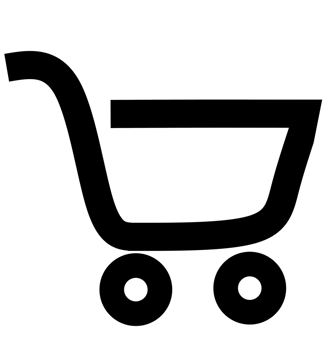
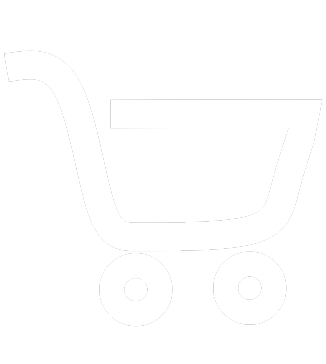
welcome to the world

Changed region(s): [[0.0, 0.1209, 1.0, 0.9066]]

diff --git a/src/pages/Landing.jsx b/src/pages/Landing.jsx
@@ -1,4 +1,4 @@
-import { Slider, SliderTrack, SliderFilledTrack, SliderThumb, Box, Heading, Flex, Card, Grid, GridItem, Text, Divider, Center, Link, Button, FormControl, Input, Show, Hide } from "@chakra-ui/react"
+import { Slider, SliderTrack, SliderFilledTrack, SliderThumb, Box, Heading, Flex, Card, Grid, GridItem, Text, Divider, Center, Link, Button, FormControl, Input, Show, Hide, AbsoluteCenter } from "@chakra-ui/react"
 import { Image } from "@chakra-ui/react"
 import { Carousel } from "react-responsive-carousel";
 import "react-responsive-carousel/lib/styles/carousel.min.css";
@@ -20,6 +20,8 @@ import mobileintro from "../media/mobile intro.png"
 import InfoCard from "../components/InfoCard";
 
 const slides = ["","",""]
+
+const deviceicons = [ laptopicon, desktopicon, phoneicon]
 
 export default function Home() {
     const tawkMessengerRef = useRef()
@@ -53,38 +55,17 @@ src={mobileintro}/>
                 </Carousel>    
             </Box>
         </Box>
-        <Grid bgColor='bg.300' padding="4vh" gap={0} templateColumns="15fr 1fr 4fr" sx={{ boxShadow: "inset 0px 2px 4px #000000" }} >
-            <Text fontSize={{xl:"1.8rem", xxxl: "2.5rem"}} color="white" fontWeight="400" fontFamily="Cocogoose" placeSelf="center"> <Text as="span" fontWeight="600" fontSize="1.3em"> pardon our dust, </Text> we are currently developing our website to make custom builds, and repair requests, easy. We're still open for business, so <Link color="red"> <ScrollLink to="contact-section"
-        spy={true}
-        smooth={true}
-        offset={-70}
-        duration={500} > click here for sales or repairs!</ScrollLink> </Link>   </Text>
-            <Divider orientation="vertical" h="100%" placeSelf="center"></Divider>
-            <Heading color="white" fontSize={{xl:"8vh", xxxl:"7vh"}} fontFamily="Cocogoose" fontWeight="400" marginLeft="2vw" height={{xl:"30vh", xxxl:"25vh"}}> website coming soon. <Image display="inline" src={hammer} height="20%"/> </Heading>
-        </Grid>
-        <InfoCard></InfoCard>
-        <Grid bgColor='bg.200' paddingY="4vh" gap={0} templateColumns="2.8fr 0.5fr 7.5fr 3fr" sx={{ boxShadow: "inset 0px 2px 4px #000000" }}>
-        <Heading color="white" fontSize={{xl:"8vh", xxxl:"7vh"}} fontFamily="Cocogoose" fontWeight="400" marginLeft="2vw" placeSelf="center"> looking for repairs? </Heading>
-        <Divider orientation="vertical" h="100%" align></Divider>
-        <Text fontSize={{xl:"1.8rem", xxxl: "3rem"}} color="white" fontWeight="400" fontFamily="Cocogoose" placeSelf="center"> <Text as="span" fontWeight="600" fontSize={{xl:"1.3em", xxl:"1em"}}> low cost and easy. </Text> We guarantee cheapest fees in the area and will price match on request. We make it easy to repair anything, mobile, PC or laptop, and if we don't fix your problem, there's no fee. 
-        <Link color="red"> <ScrollLink to="contact-section"
-    spy={true}
-    smooth={true}
-    offset={-70}
-    duration={500} > Set up a drop off or a pick up today. </ScrollLink> </Link></Text>
-    <Grid templateRows="1fr 1fr 1fr" templateColumns="1fr" gap={0} h={{xl:"35vh", xxl:"30vh"}} w="100%">
-        <Image src={laptopicon} maxH="80%" objectFit="cover" placeSelf="center" />
-        <Image src={desktopicon} maxH="80%" objectFit="cover" placeSelf="center"/>
-        <Image src={phoneicon} maxH="80%" objectFit="cover" placeSelf="center"/>
-    </Grid>
-</Grid>
-        <Flex bgColor="bg.350" sx={{ boxShadow: "0px 2px 4px #000000", zIndex: "3"}} py="5vh" px="2vw" color="white" id="contact-section">
-            <Flex width="60%" gap="1vh" flexDir="column">
-                <Heading fontFamily="cocogoose" fontSize={{xl: "4rem", xxxl: "5.5rem"}}> ready to get started? </Heading>
-                <Text fontFamily="poppins" fontSize={{xl: "1.2rem", xxxl: "1.6rem"}}> To get started with a repair or sale, or just a general enquiry, tap the button to quickly start a chat with a staff member, or send us an email below. </Text>
-                <Button marginTop="1vw" colorScheme="highlight" gap="10px" onClick={handleMaximize} size={{xl: 'md', xxxl: "xl"}}> <Image src={chatbubble} h="80%"/> <Text> Start a chat </Text></Button>
+        <InfoCard bg="bg.300" subtitle="pardon our dust," bait="We're still open for business, so" linktext="click here for sales or repairs!" button="Click here for sales and repairs." title="website coming soon." titleimg={hammer} scrolllinkto="contact-section"> we are currently developing our website to make custom builds, and repair requests, easy. </InfoCard>
+        <InfoCard orientation="row-reverse" bg="bg.200" subtitle="low cost and easy." linktext="Set up a drop off or pickup today." button="Set up a drop off or pickup today." title="looking for repairs?" scrolllinkto="contact-section" images={deviceicons}>  We guarantee cheapest fees in the area and will price match on request. We make it easy to repair anything, mobile, PC or laptop, and if we don't fix your problem, there's no fee. </InfoCard>
+        <Flex bgColor="bg.350" sx={{ boxShadow: "0px 2px 4px #000000", zIndex: "3"}} py="3vh" px="2vw" color="white" id="contact-section">
+            <Flex width={{lg:"60%", base:"100%"}} gap="1vh" flexDir="column">
+                <Heading fontFamily="cocogoose" textAlign={{base:"center",lg:"left"}} fontSize={{base: "2.5rem", xl: "4rem", xxxl: "5.5rem"}}> ready to get started? </Heading>
+                <Text fontFamily="poppins" fontSize={{xl: "1.2rem", xxxl: "1.6rem"}} textAlign={{base: "center", lg:"left"}}> To get started with a repair or sale, or just a general enquiry, tap the button to quickly start a chat with a staff member, or send us an email below. </Text>
+                <Button marginTop="1vw" colorScheme="highlight" gap="10px" onClick={handleMaximize} size={{base: 'md', xl: 'md', xxxl: "xl"}} w="100%"> <Image src={chatbubble} h="80%"/> <Text> Start a chat </Text></Button>
                 <Flex align="center" marginTop="1vw" gap="1vw" marginBottom="1vh">
-                    <Text fontSize={{xl: "1.5rem", xxl: "2rem"}}> OR </Text> <Divider/>
+                    <Show above="lg"><Text fontSize={{xl: "1.5rem", xxl: "2rem"}}> OR </Text> </Show>  
+                    <Divider/>  
+                    <Hide above="lg"> OR <Divider/> </Hide> 
                 </Flex>
                 <ContactCard page="/landing"/>
             </Flex>

diff --git a/src/components/ContactCard.jsx b/src/components/ContactCard.jsx
@@ -15,48 +15,44 @@ export default function ContactCard(props) {
     <>
         <Text marginBottom="0.5vw" color="lightgray" fontSize={{xl: "1rem", xxxl: "1.3rem"}}> Send us an email (*required field)</Text>
         <Form method='post' action={props.page}>
-            <Grid templateColumns="1.5fr 3fr" columnGap="1vw" >
-                <FormControl marginBottom="1vw">
-                    <Input type="text" name="name" placeholder='Name*' variant="filled" backgroundColor="bg.200" size={{xl: "md", xxxl: "lg"}}/>
+            <Flex flexWrap="wrap" justify="space-between" columnGap="1vw" gap={{base:"1vh", lg:"0vw"}}>
+                <FormControl marginBottom="1vw" display="inline" maxWidth={{base:"100vw", lg:"49%"}}>
+                    <Input type="text" name="name" placeholder='Name*' variant="filled" backgroundColor="bg.200" size={{base:"md",xl: "md", xxxl: "lg"}}/>
                 </FormControl>
 
-                <FormControl isRequired marginBottom="1vw">
-                    <Input variant="filled" backgroundColor="bg.200" type="email" name="email" placeholder='Email*' size={{xl: "md", xxxl: "lg"}}/>
-                </FormControl>
-            </Grid>
-
-            <FormControl marginBottom="1vw">
-                <Select variant="filled" backgroundColor="bg.200" placeholder='What are you enquiring about?*' size={{xl: "md", xxxl: "lg"}} name='enquirytype'>
-                    <option  style={{backgroundColor: "black"}} value="sales"> Sales </option>
-                    <option style={{backgroundColor: "black"}} value="techsupport"> Technical Support </option>
-                    <option style={{backgroundColor: "black"}} value="repair"> Repair </option>
-                    <option style={{backgroundColor: "black"}} value="general"> General Enquiry </option>
-                </Select>
-            </FormControl>
-
-            <Grid templateColumns="1fr 3fr" columnGap="1vw">
-
-                <FormControl marginBottom="1vw">   
-                    <Input variant="filled" backgroundColor="bg.200" type="number" name="postcode" placeholder='Postcode' size={{xl: "md", xxxl: "lg"}}/>
+                <FormControl isRequired marginBottom="1vw" display="inline" maxWidth={{base:"100vw", lg:"49%"}}>
+                    <Input variant="filled" backgroundColor="bg.200" type="email" name="email" placeholder='Email*' size={{base:"md",xl: "md", xxxl: "lg"}}/>
                 </FormControl>
 
                 <FormControl marginBottom="1vw" >
-                    <Input variant="filled" backgroundColor="bg.200" type="number" name="phone" placeholder='Phone' size={{xl: "md", xxxl: "lg"}}/>
+                    <Select variant="filled" backgroundColor="bg.200" placeholder='What are you enquiring about?*' size={{base:"md",xl: "md", xxxl: "lg"}} name='enquirytype'>
+                        <option  style={{backgroundColor: "black"}} value="sales"> Sales </option>
+                        <option style={{backgroundColor: "black"}} value="techsupport"> Technical Support </option>
+                        <option style={{backgroundColor: "black"}} value="repair"> Repair </option>
+                        <option style={{backgroundColor: "black"}} value="general"> General Enquiry </option>
+                    </Select>
                 </FormControl>
 
 
-            </Grid>
+                <FormControl marginBottom="1vw" maxWidth={{base:"100vw", lg:"49%"}}>   
+                    <Input variant="filled" backgroundColor="bg.200" type="number" name="postcode" placeholder='Postcode' size={{base:"md",xl: "md", xxxl: "lg"}}/>
+                </FormControl>
 
-            <FormControl marginBottom="1vw">
-                <Textarea 
-                variant="filled" backgroundColor="bg.200"
-                placeholder='How can we help you?*'
-                name="message"
-                size={{xl: "md", xxxl: "lg"}}/>
-            </FormControl>
+                <FormControl marginBottom="1vw" maxWidth={{base:"100vw", lg:"49%"}}>
+                    <Input variant="filled" backgroundColor="bg.200" type="number" name="phone" placeholder='Phone' size={{base:"md",xl: "md", xxxl: "lg"}}/>
+                </FormControl>
 
 
-            <Button type="submit"  size={{xl: "md", xxxl: "lg"}} onSubmit={useToast({
+                <FormControl marginBottom="1vw">
+                    <Textarea 
+                    variant="filled" backgroundColor="bg.200"
+                    placeholder='How can we help you?*'
+                    name="message"
+                    size={{base:"md",xl: "md", xxxl: "lg"}}/>
+                </FormControl>
+
+
+            <Button type="submit"  size={{base:"md",xl: "md", xxxl: "lg"}} onSubmit={useToast({
                 title: 'Message sent.',
                 description: 'You should receive a confirmation email in 1-2 minutes.',
                 status: 'success',
@@ -65,6 +61,7 @@ export default function ContactCard(props) {
             })}>
                 Submit
             </Button>
+            </Flex>
         </Form>
     </>
   )

diff --git a/src/components/InfoCard.jsx b/src/components/InfoCard.jsx
@@ -8,21 +8,42 @@ import laptopicon from "../media/icons/laptop.png"
 import desktopicon from "../media/icons/desktop.png"
 import phoneicon from "../media/icons/phone.png"
 import hammer from "../media/icons/hammer.png"
+import { useBreakpointValue } from '@chakra-ui/react'
+import { Link as ReactRouterLink} from 'react-router-dom'
+
+// parameters: Subtitle, Bait, Linktext, Linkto, Title, Titleimg, Scrolllinkto, Button, Orientation, show divider
 
 export default function InfoCard(props) {
-
+  const orient = useBreakpointValue({base: "horizontal", lg: "vertical"})
 
   return (
-    <Flex backgroundColor="bg.300" p="4vh" gap="2vw" flexDir={{base: "column", lg:"row"}}>
-        <Text fontSize={{xl:"1.8rem", xxxl: "2.5rem"}} color="white" fontWeight="400" fontFamily="Cocogoose" placeSelf="center"> <Text as="span" fontWeight="600" fontSize="1.3em"> pardon our dust, </Text> we are currently developing our website to make custom builds, and repair requests, easy. We're still open for business, so <Link color="red"> <ScrollLink to="contact-section"
+    <Flex backgroundColor={props.bg} p="4vh" gap={{base: "3.5vh",lg:"2vw"}} flexDir={{base: "column-reverse", lg:props.orientation ? props.orientation : "row"}}>
+        { props.images && 
+        <Grid templateColumns={{base:('repeat(' + props.images.length + ', 1fr)'), lg:"1fr"}} maxH={{base:"15vh", xl:"35vh", xxl:"30vh"}} maxW={{base: "100vw", xl:"10vw"}}>
+            {props.images.map((image, index) =>
+            <Image src={image} maxH="80%" maxW={{base:100/(props.images.length-10) + "vw", lg:"10vw"}} objectFit="cover" placeSelf="center" /> 
+            )}
+        </Grid> }
+        <Show below='lg'>{props.button && <Button colorScheme='bg'> {props.button} </Button>}</Show>
+        <Text fontSize={{xl:"1.8rem", xxxl: "2.5rem"}} color="white" fontWeight="400" fontFamily="Cocogoose" placeSelf="center" textAlign={{base:"center", lg:"left"}}> <Text as="span" fontWeight="600" fontSize={{lg:"1.3em"}}> {props.subtitle} </Text> {props.children} {props.bait} <Show above='lg'> {props.scrolllinkto ? <Link color="red"> <ScrollLink to={props.scrolllinkto}
         spy={true}
         smooth={true}
         offset={-70}
-        duration={500}> click here for sales or repairs!</ScrollLink> </Link>   </Text>
+        duration={500}> {props.linktext}  </ScrollLink> </Link> : <Link as={ReactRouterLink} color="red" to={props.linkto}>{props.linktext}</Link> } </Show>   </Text>
+        <Show above='lg'>
         <Flex>
-          <Divider display="inline" orientation={{base: "vertical", lg: "vertical"}} placeSelf="center" h="80%"></Divider>
+          <Divider display="inline" orientation={orient} placeSelf="center" h="100%" color="red"/>
         </Flex>
-        <Heading color="white" maxW="20vw" fontSize={{base:"9vh", xl:"8vh", xxxl:"7vh"}} fontFamily="Cocogoose" fontWeight="400" marginLeft="2vw" height={{xl:"30vh", xxxl:"25vh"}}> website coming soon. <Image display="inline" src={hammer} height="20%"/> </Heading>
+        </Show>
+        { props.showDivider &&
+        <Show below='lg'>
+          <Flex>
+            <Divider display="inline" orientation={orient} placeSelf="center" h="100%" color="red"/>
+          </Flex>
+        </Show>
+        }
+        <Heading color="white" maxW={{base:"100vw",lg:"20vw"}} fontSize={{base:"5vh", xl:"8vh", xxxl:"7vh"}} fontFamily="Cocogoose" fontWeight="400" marginLeft="2vw" maxH={{base: "15vh", xl:"30vh", xxxl:"25vh"}} alignContent="center" textAlign={{base:"center", lg:"left"}}> {props.title} <Show above='lg'>{props.titleimg && <Image display="inline" src={props.titleimg} height="20%"/>}</Show> </Heading>
     </Flex>
+
   )
 }

diff --git a/src/components/Footer.jsx b/src/components/Footer.jsx
@@ -9,15 +9,15 @@ import { NavLink } from 'react-router-dom'
 
 export default function Footer() {
   return (
-    <Flex bgGradient="linear(to-t, highlight.200, bg.300)" w="100%" flexDir="column" alignItems="center" gap="2vw" p="5vh">
-        <Flex h="60px" justifyContent="center" gap="2vw" maxWidth="500px" width="100vw">
-            <Link><Image src={facebook} height="100%"/></Link>
-            <Link><Image src={tiktok} height="100%"/></Link>
-            <Link><Image src={x}  height="100%" /></Link>
+    <Flex bgGradient="linear(to-t, highlight.200, bg.300)" w="100%" flexDir="column" alignItems="center" gap={{base:"6vw", lg:"2vw"}} p="5vh">
+        <Flex maxH="60px" justifyContent="center" columnGap="20px" maxWidth="500px">
+            <Link href='https://www.youtube.com/watch?v=dQw4w9WgXcQ&pp=ygUccmljayBhc3RsZXkgbmV2ZXIgZ29ubmEgc3RvcA%3D%3D'><Image src={facebook} height="100%"/></Link>
+            <Link href='https://www.tiktok.com/@bonfire.pc'><Image src={tiktok} height="100%"/></Link>
+            <Link href='https://twitter.com/bonfire_pcs'><Image src={x}  height="100%" /></Link>
             <Link href='https://www.youtube.com/@Bonfire_PCs'><Image src={youtube} height="100%"/></Link>
-            <Link ><Image src={instagram} height="100%"/></Link>
+            <Link href='https://www.instagram.com/bonfire.computers/' ><Image src={instagram} height="100%"/></Link>
         </Flex>
-        <Flex w="100%" justifyContent="center" gap="2vw" color="gray.300">
+        <Flex w="100%" justifyContent="center" gap="2vw" color="gray.300" fontSize={{base: "0.8rem", lg:"1rem"}}>
             <NavLink> Home </NavLink>
             <NavLink> About </NavLink>
             <NavLink> Desktops </NavLink>
@@ -25,7 +25,7 @@ export default function Footer() {
             <NavLink> Repairs </NavLink>
             <NavLink> Contact Us </NavLink>
         </Flex>
-        <Text color="gray.400"> © 2024 Bonfire Computers, Inc. All Rights Reserved </Text>
+        <Text color="gray.400" fontSize={{base: "0.8rem"}}> © 2024 Bonfire Computers, Inc. All Rights Reserved </Text>
     </Flex>
   )
 }

diff --git a/src/components/Header.jsx b/src/components/Header.jsx
@@ -1,11 +1,13 @@
-import { Button, Flex, Heading, Image, Container, background, Hide, useBreakpointValue, useMediaQuery } from '@chakra-ui/react'
+import { Button, Flex, Heading, Image, Container, background, Hide, useMediaQuery } from '@chakra-ui/react'
 import React, { Children } from 'react'
 import logo from '../media/bonfire-logo-light.png'
 import searchicon from "../media/search button.png"
 import shoppingcart from "../media/shoppingcart.png"
+import shoppingcartblack from "../media/shoppingcartblack.png"
 import { useLocation, useNavigate } from 'react-router-dom'
 import { Link as ReactRouterLink} from 'react-router-dom'
 import hamburger from "../media/icons/hamburger.png"
+import { useBreakpointValue } from '@chakra-ui/react'
 
 const Content = () => {
     const location = useLocation()
@@ -22,7 +24,7 @@ const Content = () => {
     </Flex>
     <Flex h="100%" align="center" gap="0.5vw">
         <Button height="70%" colorScheme='bg'><Image h="60%" src={searchicon}/></Button>
-        <Button height="70%" backgroundColor="white"><Image h="60%" src={shoppingcart}/></Button>
+        <Button height="70%" backgroundColor="white"><Image h="60%" src={shoppingcartblack}/></Button>
     </Flex></> 
     
     :
